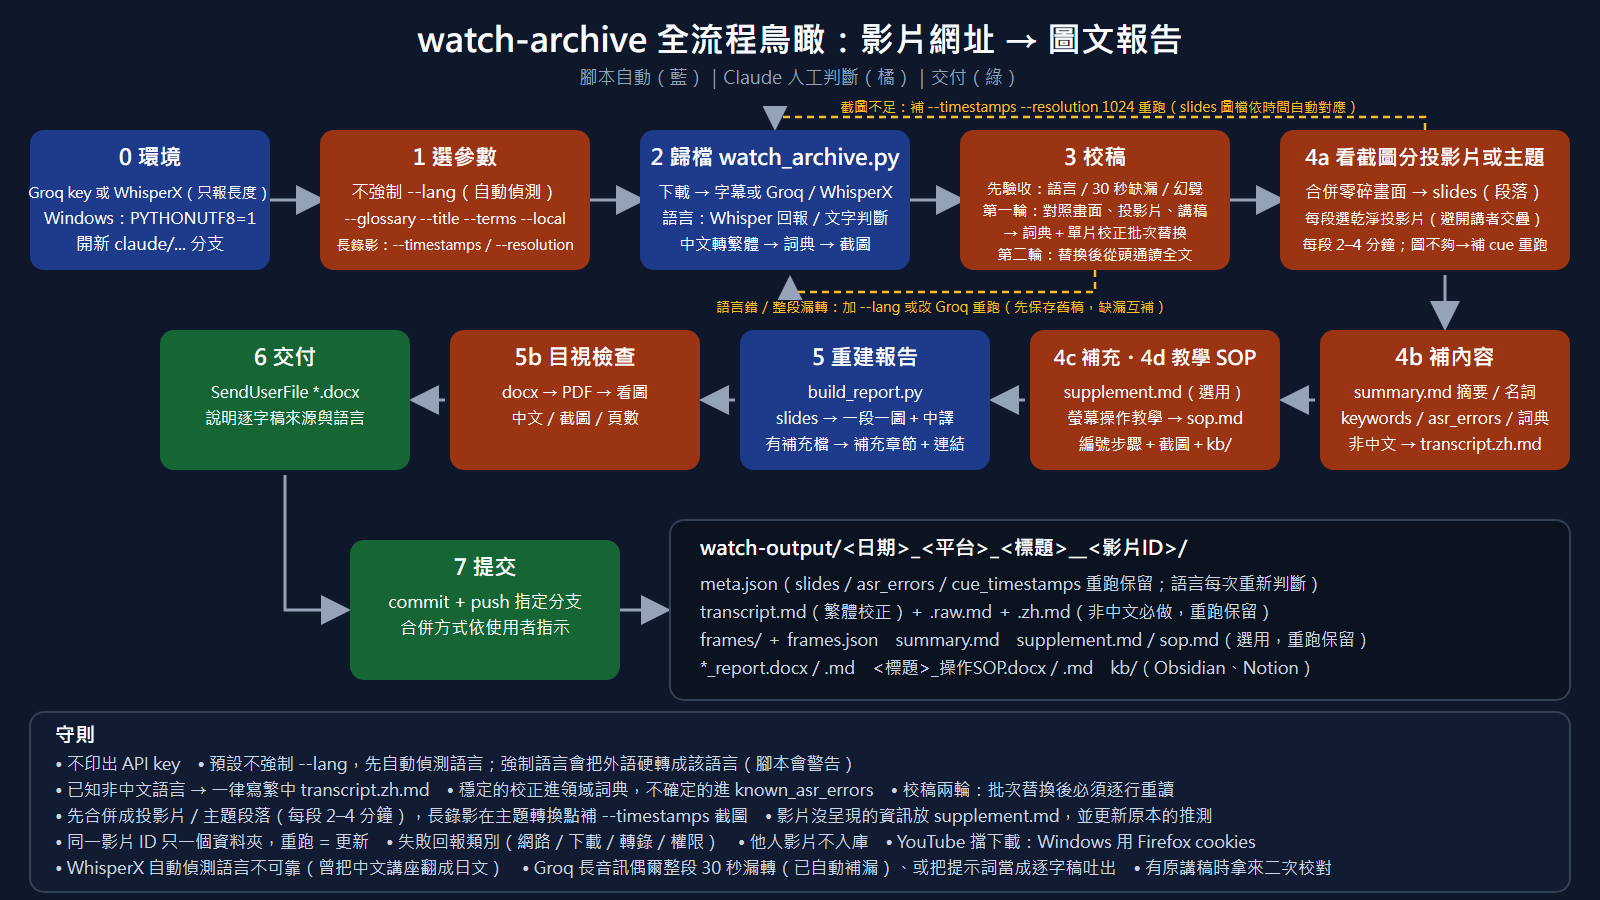
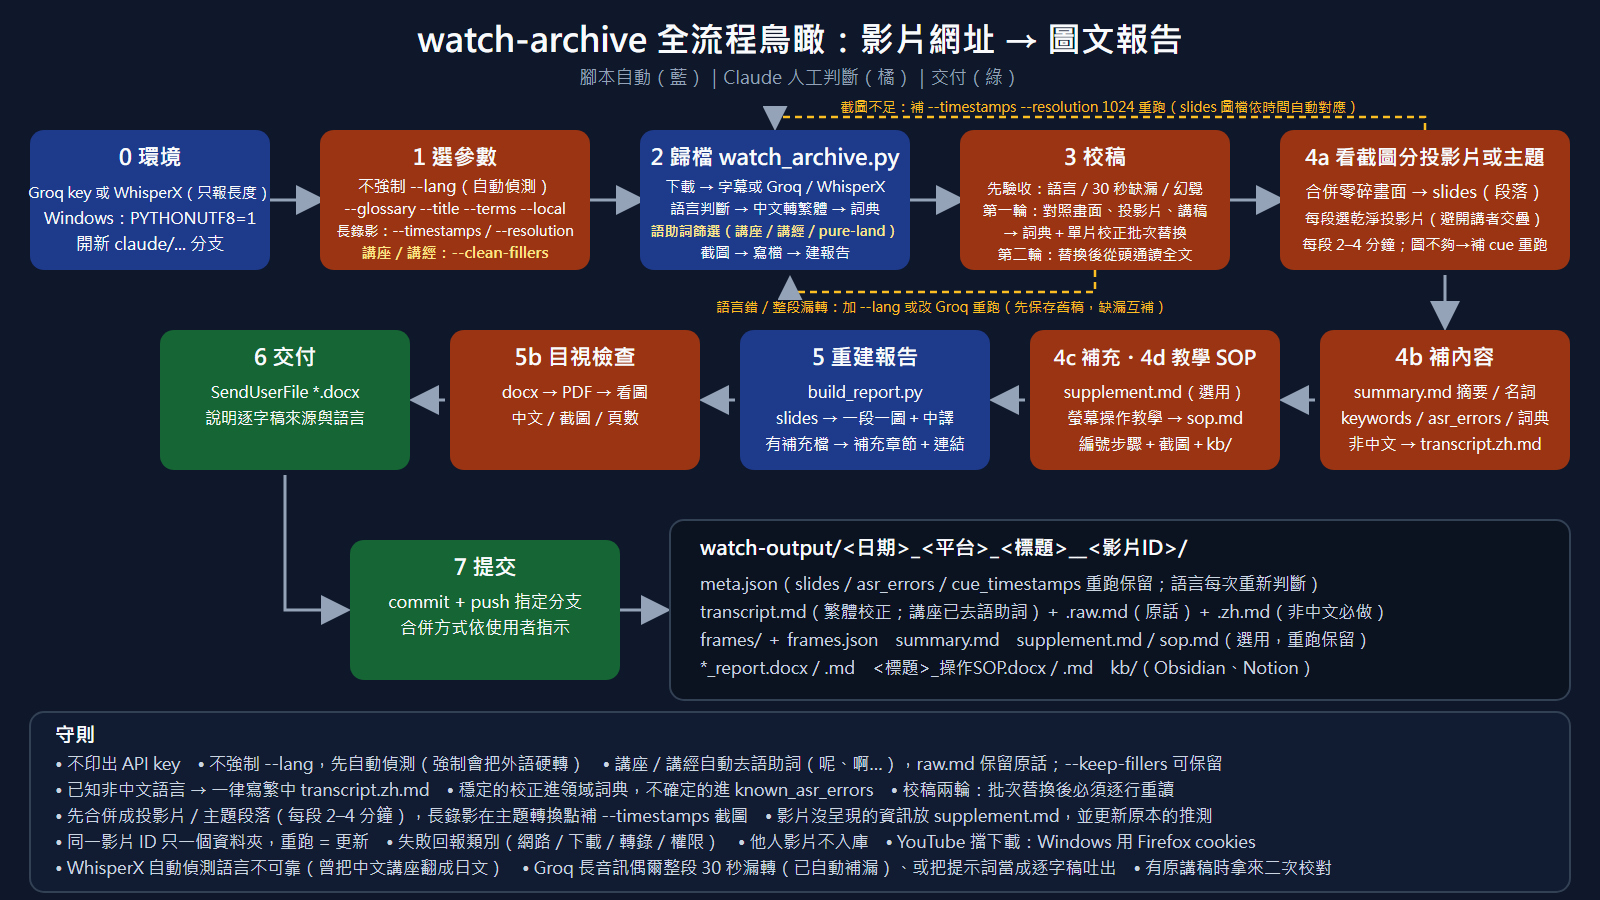
語助詞篩選：講座／講經（video_type lecture 或 pure-land 詞典）自動啟用；更新 SKILL／CLAUDE 與流程圖
Claude-Session: d2ad0fc7-7ab3-4564-b640-970fac3d580f

diff --git a/scripts/watch_archive.py b/scripts/watch_archive.py
@@ -314,14 +314,15 @@ def resolve_fillers_mode(clean: bool, keep: bool, remembered: str) -> str:
     return remembered if remembered in ("on", "off") else "auto"
 
 
-def fillers_enabled(mode: str, domains) -> bool:
-    """auto = Buddhist lecture glossary loaded: spoken-lecture particles (呢、啊…) are stripped from transcript.md."""
-    return mode == "on" or (mode == "auto" and "pure-land" in domains)
+def fillers_enabled(mode: str, domains, video_type: str = "") -> bool:
+    """auto = a spoken lecture (講座／講經): the pure-land glossary is loaded or meta.json.video_type is "lecture";
+    its particles (呢、啊…) are then stripped from transcript.md."""
+    return mode == "on" or (mode == "auto" and ("pure-land" in domains or video_type == "lecture"))
 
 
-def apply_fillers(transcript: str, to_zh_tw: bool, mode: str, domains):
+def apply_fillers(transcript: str, to_zh_tw: bool, mode: str, domains, video_type: str = ""):
     """Strip filler particles when enabled and the transcript is Chinese. Returns (text, lines changed, lines dropped)."""
-    if to_zh_tw and fillers_enabled(mode, domains):
+    if to_zh_tw and fillers_enabled(mode, domains, video_type):
         return clean_fillers.clean_text(transcript)
     return transcript, 0, 0
 
@@ -399,8 +400,8 @@ def main():
     sg.add_argument("--sop", action="store_true", help="force the step-by-step SOP step (computer-tool tutorials); remembered")
     sg.add_argument("--no-sop", action="store_true", help="skip the SOP step even if sop.md exists; remembered")
     fg = ap.add_mutually_exclusive_group()
-    fg.add_argument("--clean-fillers", action="store_true", help="strip filler particles (呢、啊…) from the Chinese transcript; default for --glossary pure-land; remembered")
-    fg.add_argument("--keep-fillers", action="store_true", help="keep filler particles even for pure-land lectures; remembered")
+    fg.add_argument("--clean-fillers", action="store_true", help="strip filler particles (呢、啊…) from the Chinese transcript; default for lectures (講座／講經: --glossary pure-land or video_type lecture); remembered")
+    fg.add_argument("--keep-fillers", action="store_true", help="keep filler particles even for lectures; remembered")
     args = ap.parse_args()
 
     platform, raw_id = platform_and_id(args.url)
@@ -460,7 +461,7 @@ def main():
     else:  # keep ja / ko / unclear text untouched
         transcript, glossary_applied = apply_glossary(transcript_raw, gl_replace)
     fillers_mode = resolve_fillers_mode(args.clean_fillers, args.keep_fillers, early_meta.get("clean_fillers", ""))
-    transcript, n_changed, n_dropped = apply_fillers(transcript, to_zh_tw, fillers_mode, domains)  # raw.md keeps the original
+    transcript, n_changed, n_dropped = apply_fillers(transcript, to_zh_tw, fillers_mode, domains, early_meta.get("video_type", ""))  # raw.md keeps the original
     if n_changed or n_dropped:
         print(f"[watch] filler particles removed: {n_changed} line(s) cleaned, {n_dropped} dropped")
     if _S2T is None:

diff --git a/tests/test_watch_archive.py b/tests/test_watch_archive.py
@@ -579,6 +579,16 @@ class FillersMode(unittest.TestCase):
         self.assertTrue(wa.fillers_enabled("on", []))
         self.assertFalse(wa.fillers_enabled("off", ["pure-land"]))
 
+    def test_auto_also_for_lecture_video_type(self):
+        self.assertTrue(wa.fillers_enabled("auto", [], "lecture"))
+        self.assertTrue(wa.fillers_enabled("auto", ["ai-video"], "lecture"))
+        self.assertFalse(wa.fillers_enabled("auto", [], "tutorial"))
+        self.assertFalse(wa.fillers_enabled("auto", [], ""))
+        self.assertFalse(wa.fillers_enabled("off", ["pure-land"], "lecture"))  # --keep-fillers always wins
+        self.assertTrue(wa.fillers_enabled("on", [], "tutorial"))
+        t = "```\n[00:01] 這個呢，很好啊。\n```\n"
+        self.assertEqual(wa.apply_fillers(t, True, "auto", [], "lecture")[1:], (1, 0))
+
     def test_apply_fillers_only_for_chinese_and_enabled_mode(self):
         t = "```\n[00:01] 這個呢，很好啊。\n```\n"
         cleaned = "```\n[00:01] 這個，很好。\n```\n"

diff --git a/.claude/skills/watch-archive/SKILL.md b/.claude/skills/watch-archive/SKILL.md
@@ -12,7 +12,7 @@ description: 看影片並歸檔成圖文報告。使用者給影片網址（Face
 ![watch-archive 流程鳥瞰圖](../../../docs/watch-archive-flow.png)
 
 ```text
-網址 ─▶ 0 環境 ─▶ 1 選參數(不強制 --lang；長錄影加 --timestamps/--resolution；本地轉錄加 --local) ─▶ 2 歸檔(下載→平台字幕或 Groq／WhisperX 轉錄→偵測語言→中文轉繁體→詞典校正→截圖→報告)
+網址 ─▶ 0 環境 ─▶ 1 選參數(不強制 --lang；長錄影加 --timestamps/--resolution；本地轉錄加 --local；講座／講經加 --clean-fillers) ─▶ 2 歸檔(下載→平台字幕或 Groq／WhisperX 轉錄→偵測語言→中文轉繁體→詞典校正→(講座／講經)去語助詞→截圖→報告)
      ─▶ 3 校稿(先驗收：語言錯／重複幻覺／30 秒漏轉（已自動補漏）／提示詞外洩→保存舊稿後回到 2 重跑、兩次互補；第一輪批次替換→第二輪逐行重讀全文) ─▶ 4a 看截圖分投影片或主題(slides，每段 2–4 分鐘；截圖不足→補 cue 回到 2 重跑；講者交疊→改挑乾淨投影片)
      ─▶ 4b 補內容(摘要/關鍵字/校正；非中文→transcript.zh.md) ─▶ 4c 補充資料(選用 supplement.md；有原講稿→二次校對) ─▶ 4d 電腦工具教學→操作 SOP(選用 sop.md) ─▶ 5 重建報告 ─▶ 5b 目視檢查 ─▶ 6 交付 ─▶ 7 提交
 ```
@@ -39,6 +39,7 @@ description: 看影片並歸檔成圖文報告。使用者給影片網址（Face
    - 依主題 → `--glossary <領域>`，領域在 `glossary/domains/`（目前 `ai-chips`、`ai-video`、`electronics`、`kubernetes`、`claude-code`、`neo4j`、`pure-land`；`common` 一律載入）。找不到合適領域就不加，並在步驟 4 考慮新增。
    - 標題只有 #標籤或很雜亂 → `--title "描述性標題"`（可用影片開頭標題卡文字）。
    - 人名、術語只在這支影片出現 → `--terms "詞1,詞2"`。
+   - **講座／講經／演講（口語、有大量「呢」「啊」等語助詞）**：看標題或上傳者判斷是不是講座類影片，是的話歸檔時加 `--clean-fillers`（用 `--glossary pure-land` 的佛學講座會自動開啟，不必加）；之後可在 `meta.json` 寫 `"video_type": "lecture"`，重跑歸檔時 `auto` 模式也會去語助詞。不想去除加 `--keep-fillers`。選擇記在 `meta.json.clean_fillers`（`auto`／`on`／`off`），重跑沿用。
    - **電腦工具教學影片**（螢幕示範軟體／網頁／CLI／App 操作）→ 步驟 4d 會另寫操作 SOP；不想要時加 `--no-sop`，想強制時加 `--sop`（兩者擇一，記在 `meta.json.sop_mode`）。
    - **長的螢幕錄影／notebook／投影片影片** → 加 `--timestamps "MM:SS,…,H:MM:SS" --resolution 1024`。自動抽圖依畫面變化挑圖，緩慢捲動的 notebook 會被當成重複畫面丟掉，結果一段十幾分鐘只剩標題卡。做法：先跑一次讀逐字稿，找出各主題開始的時間，在每個時間點後約 20–40 秒放一個 cue（避開標題卡與轉場），再重跑；1024px 讓程式碼與小字可讀。兩個值會記在 `meta.json`（`cue_timestamps`、`resolution`），之後重跑自動沿用；重跑時 `slides` 的圖檔會依時間自動對到新截圖。
 
@@ -65,13 +66,13 @@ description: 看影片並歸檔成圖文報告。使用者給影片網址（Face
      - 補漏、接縫處插入的句子；Groq 重複兩次的整句；片尾幻覺（「多謝您的觀看，下次見！」）。
      - 一字之差的同音字（悔／毀、鑽／專、意念／憶念）與異體字不一致（唸／念，統一成一種）。
      第二輪改完，在 PDF 用 `get_text()` 搜尋第一、二輪改過的錯字，確認一個都不剩。使用者回報漏網的錯字時，修好後再做一次完整的第二輪，不要只改被指出的那一處。
-   - **去語助詞（淨土講座預設自動）**：歸檔時只要載入 `pure-land` 詞典（`--glossary pure-land`），腳本會在寫入 `transcript.md` 前自動去掉沒意義的「呢」「啊」與句尾的「啦／嘛／喔／哦／囉」（`scripts/clean_fillers.py`；只動逐字稿行，`transcript.raw.md` 保留原話；「嘛呢叭咪吽」「呢喃」「啊彌」等保留，句中的「嘛」不動）。`--keep-fillers` 保留語助詞、`--clean-fillers` 對其他中文影片強制去除（記在 `meta.json.clean_fillers`，重跑沿用）。因為在詞典替換後才處理，重跑歸檔不用再手動做；已歸檔的舊稿可手動跑 `python3 scripts/clean_fillers.py watch-output/<資料夾>`（可重複執行）。語助詞是影片原話，用 `--keep-fillers` 可保留，並在 `summary.md` 註明有沒有去除。
+   - **去語助詞（講座／講經預設自動）**：`meta.json.clean_fillers` 為 `auto` 時，只要是講座類——載入 `pure-land` 詞典，或 `meta.json.video_type` 為 `lecture`——腳本在詞典替換後、寫入 `transcript.md` 前，自動去掉沒意義的「呢」「啊」與句尾的「啦／嘛／喔／哦／囉」（`scripts/clean_fillers.py`；只動逐字稿行，`transcript.raw.md` 保留原話；「嘛呢叭咪吽」「呢喃」「啊彌」等保留，句中的「嘛」不動；只處理偵測為中文的逐字稿）。`--clean-fillers` 對任何中文影片強制去除、`--keep-fillers` 保留（記在 `meta.json.clean_fillers`，重跑沿用）。重跑歸檔會自動再做，不必手動；已歸檔的舊稿可手動跑 `python3 scripts/clean_fillers.py watch-output/<資料夾>`（可重複執行）。語助詞是影片原話，在 `summary.md` 註明有沒有去除。
    - **不要手改 `transcript.md` 以外的原始轉錄**；`transcript.raw.md` 是轉換前原文，保持不動。
    - **重跑會覆蓋 `transcript.md`**（重新轉錄，手改全部消失；`slides`、`keywords`、`known_asr_errors`、`summary.md` 會保留）。所以：穩定的校正先寫進詞典（見步驟 4）再重跑，讓它自動套用；只對這支影片成立的修正，重跑後要再手改一次 `transcript.md`，並用 `known_asr_errors` 記錄。
 
 4. **補內容**（4a 先做投影片／主題分段，再做 4b）：
    - 改寫 `summary.md`：一句話重點、含時間戳的重點表、名詞與縮寫說明、轉錄校正備註。評論／立場性影片寫「講者主張…」，數字註明未經查證。
-   - 編輯 `meta.json`（重跑時以下欄位會保留）：`keywords`（約 8–10 個）、`section_keywords`（key 為畫面起始時間，如 `"00:12"`）、`known_asr_errors`（`{"time","heard","expected"}`，推測的要標「推測」）、`slides`（見下）。
+   - 編輯 `meta.json`（重跑時以下欄位會保留）：`video_type`（`tutorial`＝電腦工具教學→4d SOP；`lecture`＝講座／講經→去語助詞）、`keywords`（約 8–10 個）、`section_keywords`（key 為畫面起始時間，如 `"00:12"`）、`known_asr_errors`（`{"time","heard","expected"}`，推測的要標「推測」）、`slides`（見下）。
    - **投影片／主題分段**：看 `frames/` 後在 `meta.json` 寫 `slides`。簡報類影片一張投影片一段；沒有投影片的影片（訪談、實拍、操作畫面）則依講述主題或場景切段，每段的 `start` 取該主題開始的時間、`title` 寫主題名：`[{"start":"00:06","frame":"frame_0019.jpg","title":"…","note":"本張投影片重點","keywords":[…]}]`，報告就會「每段一張圖 + 說明文字 + 該段逐字稿」，不再逐畫面切碎。**每段以 2–4 分鐘為宜，不要超過約 5 分鐘**；超過就再切，並確認每段都有一張屬於該段內容的截圖（不夠就補 `--timestamps`）。`frame` 選字幕與游標最乾淨的一張；沒有 `slides` 時才退回逐畫面。
    - **講者與投影片交疊的影片**（直播講座常見：投影片全螢幕＋左下角講者小視窗，換頁時有講者與投影片半透明交疊的轉場）：自動抽圖常抓到交疊畫面，使用者不要。做法：
      1. 用 yt-dlp 把影片下載到暫存區（不入庫，用完刪除），以 `ffmpeg -vf fps=1/2,scale=192:-1` 每 2 秒抽一張縮圖。

diff --git a/CLAUDE.md b/CLAUDE.md
@@ -16,6 +16,7 @@
 - 轉錄完先驗收再校稿：語言對不對、有沒有重複幻覺、有沒有約 30 秒的整段漏轉（`whisper.py` 已自動補漏，看 `[watch] refilled` 訊息）、有沒有提示詞外洩。要重跑時，先保存舊稿以便互補。
 - 報告截圖只放乾淨的畫面：講者與投影片交疊的轉場不要用，改挑投影片全螢幕的畫面（做法見 SKILL 4a）。
 - 影片在帶讀某份講稿時，用原講稿做二次校對；原稿沒有的內容是影片主講者的延伸，不能用原稿去改。
+- 講座／講經（口語演講）：歸檔時加 `--clean-fillers`（`--glossary pure-land` 自動開啟，`meta.json.video_type: "lecture"` 重跑也會開），自動去除逐字稿的「呢」「啊」等語助詞；`--keep-fillers` 保留，`transcript.raw.md` 保留原話；見 SKILL 步驟 3。
 - 電腦工具教學影片（螢幕操作示範）：消化報告後另寫 `sop.md`（依任務分章、編號步驟、按鈕名稱照畫面原文、截圖寫 `![說明](frame@MM:SS)`、沒示範的標「影片未示範」／「推測」），重建後有 `*_操作SOP.docx` 與可放進 Obsidian／Notion 的 `kb/`；見 SKILL 4d。
 - 交付前把 docx 轉 PDF 目視檢查（中文、截圖、頁數）。
 - 他人影片檔不入庫，只存報告與截圖（`media/` 已 gitignore）。
@@ -29,7 +30,7 @@
 - 本地 WhisperX（`small`）自動偵測語言不可靠：曾把中文講座判成日文並翻成日文，還有大量重複幻覺。中文影片優先用 Groq，或加 `--lang zh`。
 - Windows 本機：要設 `PYTHONUTF8=1`（否則 `watch_archive.py` 解碼中文輸出失敗）；YouTube 擋下載時只能用 Firefox cookies（Chrome／Edge 的 App-Bound 加密 yt-dlp 解不開）；使用者開著 Word 時 `build_report.py` 會 `PermissionError`，請使用者關掉。
 - 重跑 `watch_archive.py` 會清空 `frames/`，手動加的 `slide_NN.jpg` 會消失，要重做。
-- 詞典 `claude-code` 假設講者在談 Claude，講雲端的影片不要載入；佛學講座用 `pure-land`（載入時自動去除「呢」「啊」等語助詞，`--keep-fillers` 可保留；`transcript.raw.md` 保留原話）。
+- 詞典 `claude-code` 假設講者在談 Claude，講雲端的影片不要載入；佛學講座用 `pure-land`。
 - Word 預覽缺字型會出現方框（僅預覽問題）；尚未在真正的 Word 逐份驗證。
 
 ## Git
